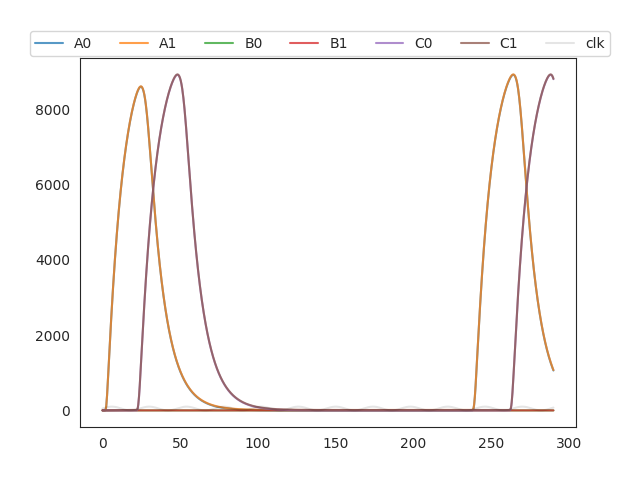
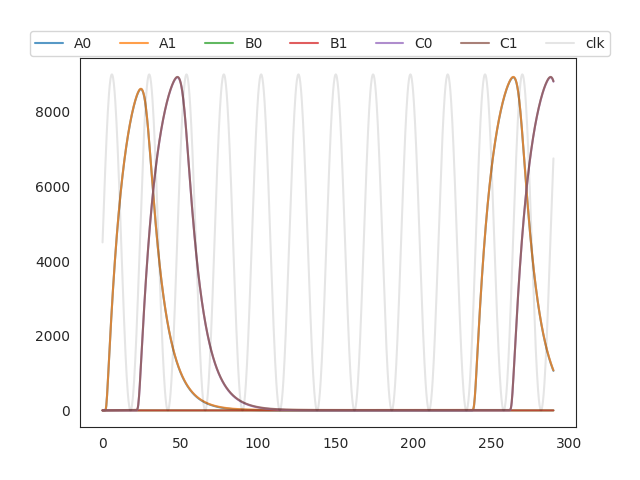
last

diff --git a/compiler/programs/program_if_false.py b/compiler/programs/program_if_false.py
@@ -3,30 +3,30 @@ def model(Y, T, params):
 	a0, not_a0, q0, not_q0,a1, not_a1, q1, not_q1,a2, not_a2, q2, not_q2,a3, not_a3, q3, not_q3,a4, not_a4, q4, not_q4,i1, i2, i3, i4, i5, i6, i7, i8, i9, i10,A0,A1,B0,B1,C0,C1,=Y
 	alpha1, alpha2, alpha3, alpha4, delta1, delta2, Kd, n, deltaE, KM,alpha_a, delta_a, Kd_a, n_a,KD_cond,=params
 	clk = get_clock(T)
-	prog_Kd_A1=10
-	prog_delta_A0=0.1
-	prog_delta_C0=0.1
 	prog_n_A1=2
-	prog_alpha_A0=1000
-	prog_alpha_A1=1000
-	prog_n_C0=2
-	prog_Kd_C1=10
-	prog_n_A0=2
+	prog_delta_A0=0.1
 	prog_delta_B0=0.1
-	prog_delta_C1=0.1
-	prog_Kd_C0=10
-	prog_delta_B1=0.1
-	prog_alpha_C1=1000
+	prog_Kd_A1=10
 	prog_n_C1=2
-	prog_delta_A1=0.1
+	prog_delta_B1=0.1
+	prog_n_A0=2
+	prog_Kd_C1=10
+	prog_Kd_C0=10
 	prog_alpha_C0=1000
+	prog_n_C0=2
 	prog_Kd_A0=10
+	prog_delta_C1=0.1
+	prog_delta_A1=0.1
+	prog_delta_C0=0.1
+	prog_alpha_A1=1000
+	prog_alpha_A0=1000
+	prog_alpha_C1=1000
 	dA0_dt=+prog_alpha_A0*activate_1(i1,prog_Kd_A0,prog_n_A0)-prog_delta_A0*A0
 	dA1_dt=+prog_alpha_A1*activate_1(i1,prog_Kd_A1,prog_n_A1) + 1-prog_delta_A1*A1
 	dC0_dt=+prog_alpha_C0*zeroth_bit(i2,A0,B0,prog_Kd_C0,prog_n_C0)-prog_delta_C0*C0
 	dC1_dt=+prog_alpha_C1*first_bit(i2,A0,A1,B0,B1,prog_Kd_C1,prog_n_C1) + 1-prog_delta_C1*C1
-	dB1_dt=-prog_delta_B1*B1
 	dB0_dt=-prog_delta_B0*B0
+	dB1_dt=-prog_delta_B1*B1
 	RESET0=0 if T > 1 else 100
 	SET0=0 
 	RESET1=0 if T > 1 else 100

diff --git a/models/robustness_analysis.py b/models/robustness_analysis.py
@@ -53,8 +53,8 @@ if __name__ == '__main__':
     for model_index in range(num_models_regions):                    
         #folder = folders[model_index]               
         model = BioProc(np.array(["protein_production", "protein_production", "protein_production", "protein_production", "protein_degradation", "protein_degradation", "Kd","hill", "protein_production", "protein_degradation", "Kd", "hill"]), model_mode=models[model_index])                                       
+        
         solver = Solver(model)    
-        print("A......")
         model_str = '0'+str(model_index+1)+'_'
         region_files =  []
         for base_path_opt in base_paths_opt:

diff --git a/models/bioproc/proc_opt.py b/models/bioproc/proc_opt.py
@@ -57,7 +57,7 @@ class BioProc:
         elif self.model_mode == five_bit_processor_ext:
             self.multiplier = 5         
             if load_init:
-                self.y0 = np.loadtxt('init4bit.txt')
+                self.y0 = np.loadtxt('init5bit.txt')
             else:                
                 self.y0 = [0]*(self.multiplier*6) 
         else: 

diff --git a/compiler/simulate_program.py b/compiler/simulate_program.py
@@ -108,7 +108,7 @@ def simulate_program(program_name, t_end, N, params_ff, params_addr, params_prot
     
     if plot_clock:
         clk = get_clock(T)
-        ax.plot(T,clk, color="black", alpha=0.1)
+        ax.plot(T,90*clk, color="black", alpha=0.1)
         ax.legend(ops + ['clk'], loc='upper left')
         legend += ['clk']
     
